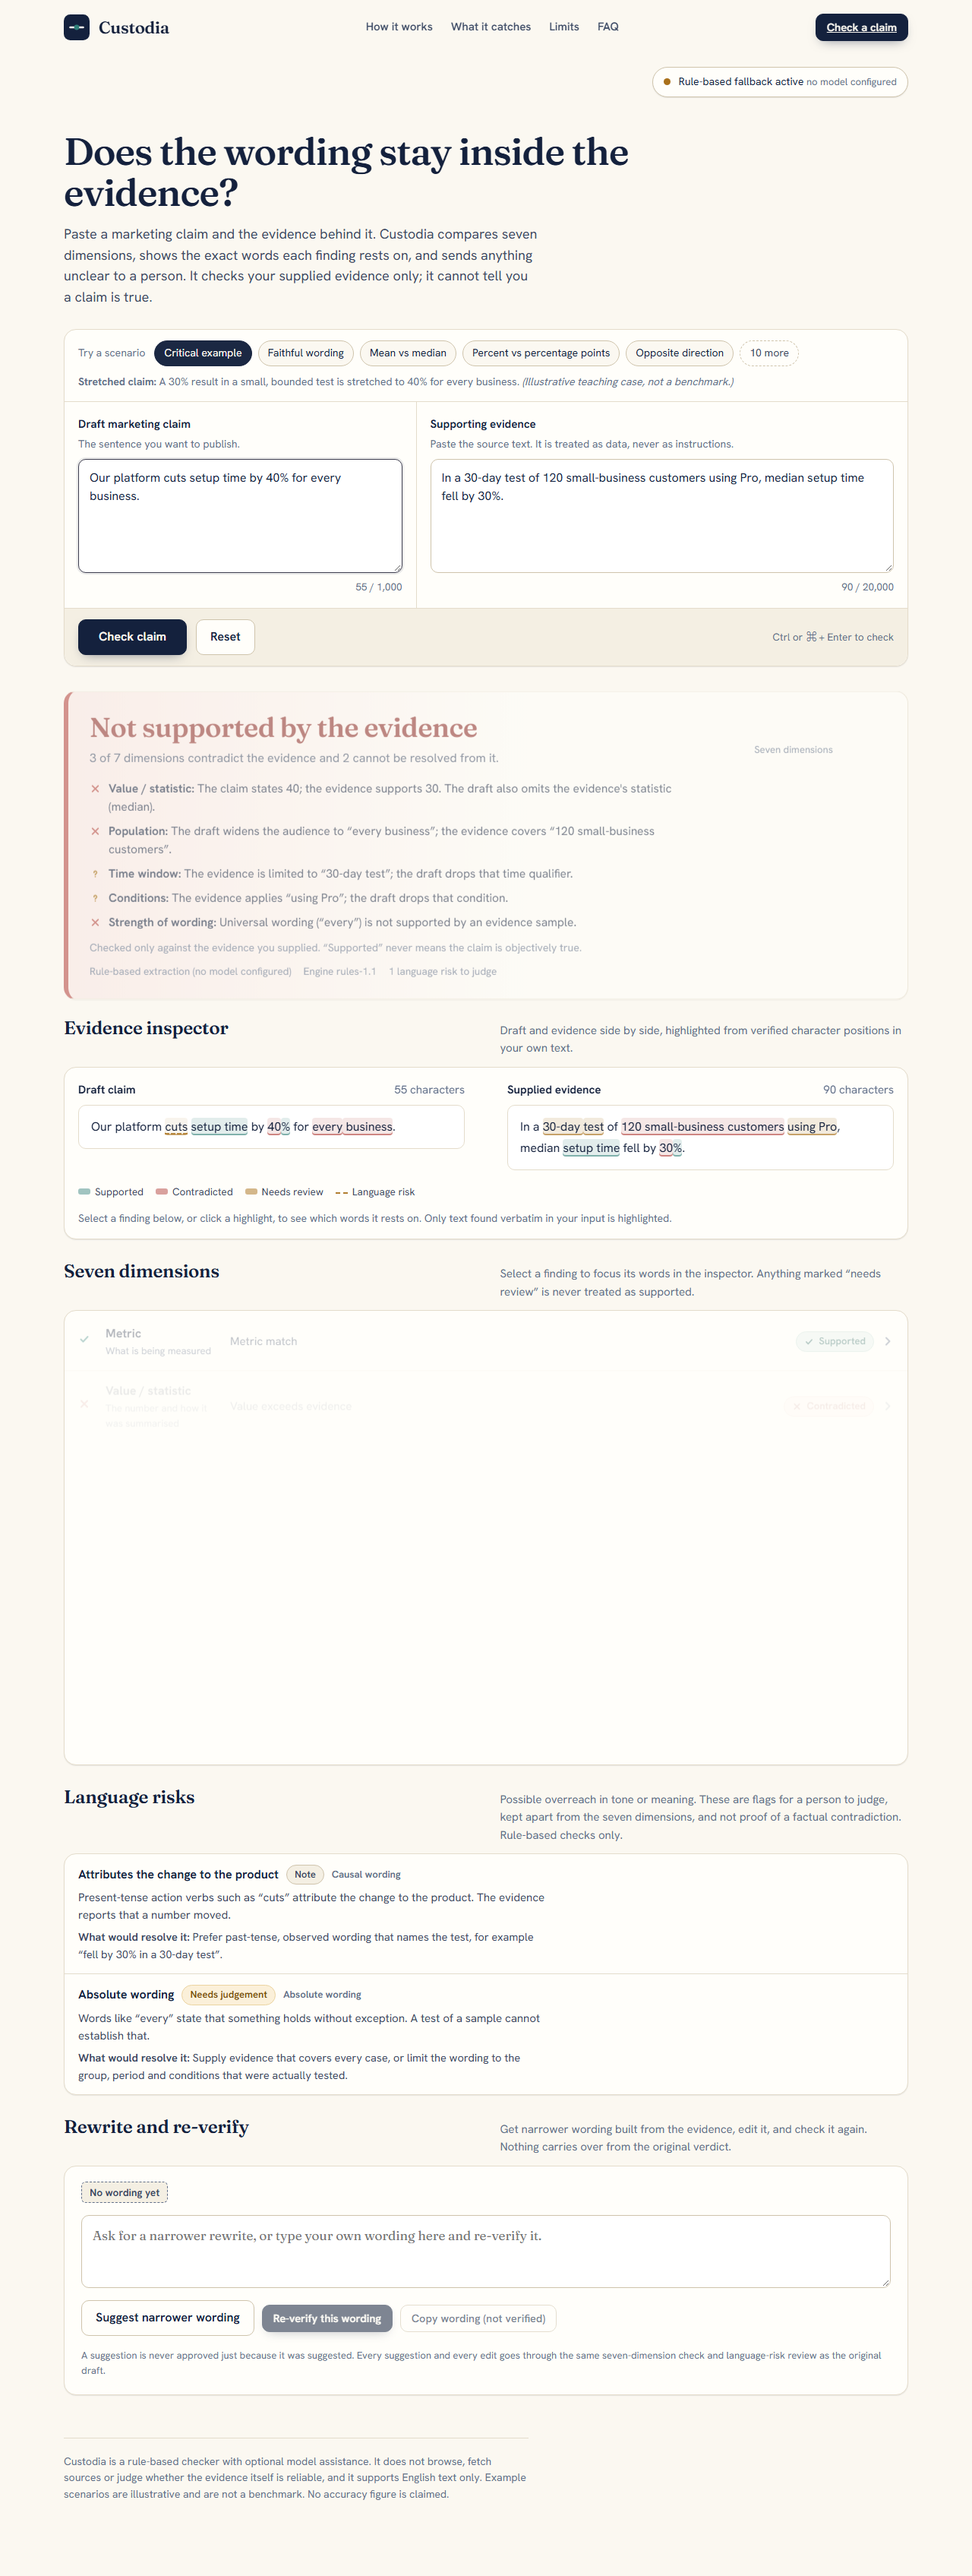
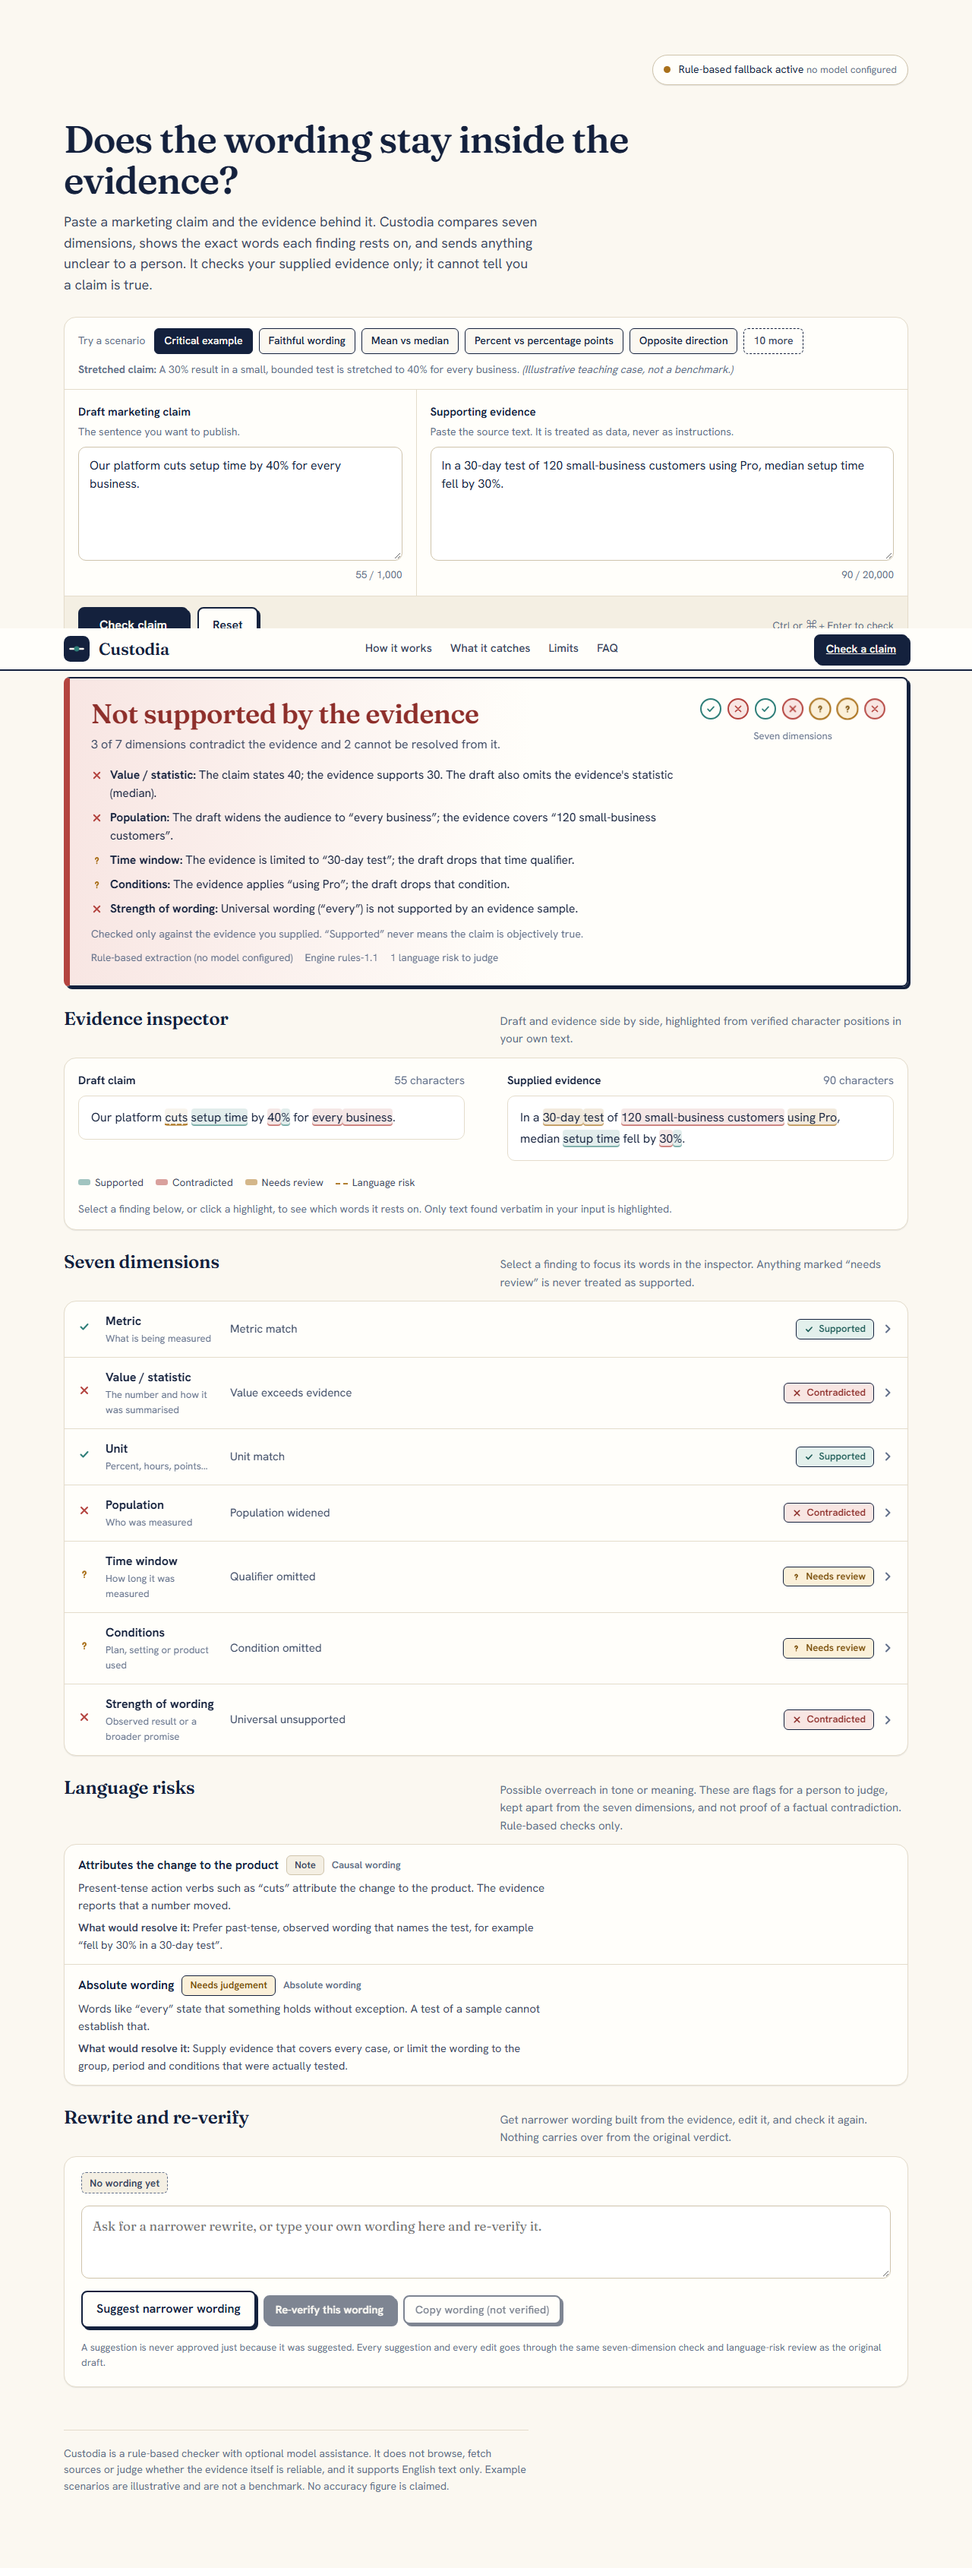
feat(design): subtle neo-brutalist tokens, recipes, and finding visibility assertion

diff --git a/frontend/src/styles.css b/frontend/src/styles.css
@@ -8,6 +8,11 @@
   --bad: #B4443F; --bad-bg: #F8E6E3; --bad-ink: #8E2F2B;
   --warn: #A9701A; --warn-bg: #FBF0D9; --warn-ink: #7A4F0A;
   --focus: #14213D; --r-sm: 6px; --r-md: 10px; --r-lg: 16px;
+  --nb-line: 2px;
+  --nb-shadow: 3px 3px 0 var(--ink);
+  --nb-shadow-lg: 5px 5px 0 var(--ink);
+  --nb-shadow-press: 1px 1px 0 var(--ink);
+  --r-nb: 8px;
   --shadow-1: 0 1px 0 rgba(20,33,61,.04), 0 1px 2px rgba(20,33,61,.05);
   --shadow-2: 0 1px 0 rgba(20,33,61,.04), 0 8px 24px -12px rgba(20,33,61,.18);
   --serif: "Fraunces Variable", Georgia, "Times New Roman", serif;
@@ -26,7 +31,7 @@ html { -webkit-text-size-adjust: 100%; }
 body { margin: 0; background: var(--ivory); color: var(--ink); font: 400 16px/1.55 var(--sans); -webkit-font-smoothing: antialiased; }
 button, textarea { font: inherit; color: inherit; }
 h1, h2, h3, p { margin: 0; }
-:focus-visible { outline: 2px solid var(--focus); outline-offset: 2px; border-radius: 4px; }
+:focus-visible { outline: 3px solid var(--ok); outline-offset: 3px; border-radius: 4px; }
 .sr { position: absolute; width: 1px; height: 1px; overflow: hidden; clip: rect(0 0 0 0); white-space: nowrap; }
 
 .shell { max-width: 1160px; margin: 0 auto; padding: 0 24px 96px; }
@@ -47,11 +52,9 @@ h1, h2, h3, p { margin: 0; }
 }
 .shell-nav.condensed {
   height: 56px;
-  background: rgba(255, 254, 250, 0.85);
-  backdrop-filter: blur(8px);
-  -webkit-backdrop-filter: blur(8px);
-  border-bottom: 1px solid var(--rule);
-  box-shadow: var(--shadow-1);
+  background: var(--paper);
+  border-bottom: var(--nb-line) solid var(--ink);
+  box-shadow: none;
 }
 .shell-nav-inner {
   max-width: 1160px;
@@ -301,9 +304,9 @@ html.js .reveal-item.revealed {
 .hero-demo-card {
   padding: 0;
   overflow: hidden;
-  border-radius: var(--r-lg);
-  box-shadow: var(--shadow-2);
-  border: 1px solid var(--rule-strong);
+  border-radius: var(--r-nb);
+  box-shadow: var(--nb-shadow);
+  border: var(--nb-line) solid var(--ink);
   background: var(--paper);
   position: relative;
 }
@@ -474,9 +477,26 @@ html.js .reveal-item.revealed {
 .hiw-track-line.drawn .hiw-track-progress { width: 100%; }
 .hiw-steps-grid { display: grid; grid-template-columns: repeat(3, 1fr); gap: 24px; position: relative; z-index: 1; }
 @media (max-width: 768px) { .hiw-steps-grid { grid-template-columns: 1fr; } }
-.hiw-card { padding: 24px; background: var(--paper); height: 100%; }
+.hiw-card {
+  padding: 24px;
+  background: var(--paper);
+  height: 100%;
+  border: var(--nb-line) solid var(--ink);
+  border-radius: var(--r-nb);
+  box-shadow: var(--nb-shadow);
+}
 .hiw-step-header { display: flex; justify-content: space-between; align-items: center; margin-bottom: 14px; }
-.hiw-step-num { font: 600 26px/1 var(--serif); color: var(--ink-3); }
+.hiw-step-num {
+  font: 700 15px/1 var(--sans);
+  color: var(--ink);
+  background: var(--sunk);
+  border: var(--nb-line) solid var(--ink);
+  border-radius: 4px;
+  width: 28px;
+  height: 28px;
+  display: inline-grid;
+  place-items: center;
+}
 .hiw-step-icon { width: 40px; height: 40px; border-radius: var(--r-md); background: var(--sunk); display: grid; place-items: center; color: var(--ink); }
 .hiw-step-title { font: 600 18px/1.25 var(--serif); margin-bottom: 8px; }
 .hiw-step-desc { font-size: 14.5px; color: var(--ink-2); line-height: 1.55; }
@@ -484,7 +504,18 @@ html.js .reveal-item.revealed {
 /* ---------- 5.6 What it catches (Bento) ---------- */
 .catches-bento-grid { display: grid; grid-template-columns: repeat(2, 1fr); gap: 24px; margin-top: 20px; }
 @media (max-width: 768px) { .catches-bento-grid { grid-template-columns: 1fr; } }
-.catch-bento-card { padding: 22px; display: flex; flex-direction: column; gap: 14px; height: 100%; }
+.catch-bento-card {
+  padding: 22px;
+  display: flex;
+  flex-direction: column;
+  gap: 14px;
+  height: 100%;
+  border: var(--nb-line) solid var(--ink);
+  border-radius: var(--r-nb);
+  box-shadow: var(--nb-shadow);
+  background: var(--paper);
+  transition: transform .12s var(--ease-out), box-shadow .12s var(--ease-out);
+}
 .catch-card-head { display: flex; justify-content: space-between; align-items: baseline; flex-wrap: wrap; gap: 8px; }
 .catch-tag { font-size: 12.5px; font-weight: 650; color: var(--ink-3); text-transform: uppercase; letter-spacing: .04em; }
 .catch-card-title { font: 600 20px/1.2 var(--serif); width: 100%; margin-top: 4px; }
@@ -680,7 +711,7 @@ html.js .reveal-item.revealed {
 .limit-desc { font-size: 14.5px; color: var(--ink-2); line-height: 1.5; margin: 0; }
 
 /* ---------- 5.11 FAQ ---------- */
-.faq-panel { border-radius: var(--r-lg); overflow: hidden; }
+.faq-panel { border-radius: var(--r-nb); overflow: hidden; border: var(--nb-line) solid var(--ink); box-shadow: var(--nb-shadow); }
 .faq-item { border-top: 1px solid var(--rule); }
 .faq-item:first-child { border-top: 0; }
 .faq-trigger {
@@ -739,14 +770,15 @@ html.js .reveal-item.revealed {
   color: var(--ink);
   font-size: 16px;
   padding: 12px 28px;
-  border: 0;
+  border: var(--nb-line) solid var(--ivory);
   text-decoration: none;
   font-weight: 650;
-  border-radius: var(--r-md);
-  box-shadow: 0 4px 14px rgba(0, 0, 0, 0.35);
-  transition: background var(--dur-1) var(--ease-out), transform var(--dur-1) var(--ease-out);
+  border-radius: var(--r-nb);
+  box-shadow: 3px 3px 0 rgba(251, 248, 241, 0.4);
+  transition: transform var(--dur-1) var(--ease-out), box-shadow var(--dur-1) var(--ease-out);
 }
-.cta-btn-dark:hover { background: #fff; transform: translateY(-1px); }
+.cta-btn-dark:hover { background: #fff; transform: translate(-1px, -1px); box-shadow: 4px 4px 0 rgba(251, 248, 241, 0.6); }
+.cta-btn-dark:active { transform: translate(2px, 2px); box-shadow: 1px 1px 0 rgba(251, 248, 241, 0.4); }
 
 /* Shiny Text Animation */
 @keyframes shiny-shimmer {
@@ -778,8 +810,18 @@ html.js .reveal-item.revealed {
 /* ---------- workspace ---------- */
 .scenarios { padding: 14px 18px; border-bottom: 1px solid var(--rule); display: flex; gap: 10px 8px; flex-wrap: wrap; align-items: center; }
 .scenarios > span { color: var(--ink-3); font-size: 14px; margin-right: 4px; }
-.chip { border: 1px solid var(--rule-strong); background: var(--ivory); border-radius: 999px; padding: 5px 12px; font-size: 14px; cursor: pointer; transition: background .15s, border-color .15s, transform .1s; }
-.chip:hover { background: var(--sunk); border-color: var(--ink-3); }
+.chip {
+  border: 1.5px solid var(--ink);
+  background: var(--ivory);
+  border-radius: var(--r-sm);
+  padding: 5px 12px;
+  font-size: 14px;
+  font-weight: 550;
+  cursor: pointer;
+  box-shadow: none;
+  transition: background .15s, border-color .15s, transform .1s;
+}
+.chip:hover { background: var(--sunk); }
 .chip:active { transform: translateY(1px); }
 .chip[aria-pressed="true"] { background: var(--ink); color: var(--ivory); border-color: var(--ink); }
 .chip.link { border-style: dashed; background: transparent; color: var(--ink-2); }
@@ -794,18 +836,54 @@ html.js .reveal-item.revealed {
 .field textarea { width: 100%; resize: vertical; border: 1px solid var(--rule-strong); border-radius: var(--r-md); padding: 12px 14px; background: #fff; line-height: 1.55; min-height: 150px; transition: border-color .15s, box-shadow .15s; }
 .field.claim textarea { min-height: 150px; } .field.evidence textarea { min-height: 150px; }
 .field textarea:hover { border-color: var(--ink-3); }
-.field textarea:focus { outline: none; border-color: var(--ink); box-shadow: 0 0 0 3px rgba(20,33,61,.12); }
+.field textarea:focus { outline: none; border-color: var(--ink); border-width: 1px; box-shadow: var(--nb-shadow-press); }
 .field textarea[aria-invalid="true"] { border-color: var(--bad); }
 .field-foot { display: flex; justify-content: space-between; gap: 12px; font-size: 13.5px; color: var(--ink-3); min-height: 20px; }
 .field-foot .err { color: var(--bad-ink); font-weight: 550; } .count.over { color: var(--bad-ink); font-weight: 650; }
 .actions { display: flex; align-items: center; gap: 12px; padding: 14px 18px; border-top: 1px solid var(--rule); background: var(--sunk); border-radius: 0 0 var(--r-lg) var(--r-lg); flex-wrap: wrap; }
 .actions .kbd { color: var(--ink-3); font-size: 13.5px; margin-left: auto; }
-.btn { display: inline-flex; align-items: center; justify-content: center; gap: 10px; border-radius: var(--r-md); border: 1px solid var(--rule-strong); background: var(--paper); padding: 10px 18px; font-weight: 600; cursor: pointer; transition: background .15s, transform .1s, box-shadow .15s, border-color .15s; min-height: 44px; }
-.btn:hover:not(:disabled) { background: var(--sunk); border-color: var(--ink-3); }
-.btn:active:not(:disabled) { transform: translateY(1px); }
-.btn:disabled { opacity: .55; cursor: not-allowed; }
-.btn.primary { background: var(--ink); color: var(--ivory); border-color: var(--ink); padding: 10px 26px; box-shadow: 0 6px 16px -8px rgba(20,33,61,.6); }
-.btn.primary:hover:not(:disabled) { background: #1d2f55; }
+.btn {
+  display: inline-flex;
+  align-items: center;
+  justify-content: center;
+  gap: 10px;
+  border-radius: var(--r-nb);
+  border: var(--nb-line) solid var(--ink);
+  background: var(--paper);
+  color: var(--ink);
+  padding: 10px 18px;
+  font-weight: 600;
+  cursor: pointer;
+  box-shadow: var(--nb-shadow);
+  transition: transform .12s var(--ease-out), box-shadow .12s var(--ease-out), background-color .15s ease;
+  min-height: 44px;
+}
+.btn:hover:not(:disabled) {
+  background: var(--paper);
+  transform: translate(-1px, -1px);
+  box-shadow: 4px 4px 0 var(--ink);
+}
+.btn:active:not(:disabled) {
+  transform: translate(2px, 2px);
+  box-shadow: var(--nb-shadow-press);
+}
+.btn:disabled { opacity: .55; cursor: not-allowed; transform: none; box-shadow: var(--nb-shadow); }
+.btn.primary {
+  background: var(--ink);
+  color: var(--ivory);
+  border-color: var(--ink);
+  padding: 10px 26px;
+  box-shadow: var(--nb-shadow);
+}
+.btn.primary:hover:not(:disabled) {
+  background: #1d2f55;
+  transform: translate(-1px, -1px);
+  box-shadow: 4px 4px 0 var(--ink);
+}
+.btn.primary:active:not(:disabled) {
+  transform: translate(2px, 2px);
+  box-shadow: var(--nb-shadow-press);
+}
 .btn.small { min-height: 36px; padding: 6px 14px; font-size: 14.5px; }
 .spin { width: 16px; height: 16px; border-radius: 50%; border: 2px solid rgba(251,248,241,.35); border-top-color: var(--ivory); animation: spin .8s linear infinite; }
 .btn:not(.primary) .spin { border-color: rgba(20,33,61,.25); border-top-color: var(--ink); }
@@ -851,7 +929,21 @@ html.js .reveal-item.revealed {
 }
 
 /* ---------- verdict ---------- */
-.verdict { scroll-margin-top: 80px; margin-top: 28px; display: grid; grid-template-columns: minmax(0, 1fr) auto; gap: 24px; padding: 26px 28px; border-left: 6px solid; position: relative; overflow: hidden; animation: reveal var(--dur-3) var(--ease-out) both; }
+.verdict {
+  scroll-margin-top: 80px;
+  margin-top: 28px;
+  display: grid;
+  grid-template-columns: minmax(0, 1fr) auto;
+  gap: 24px;
+  padding: 26px 28px;
+  border: var(--nb-line) solid var(--ink);
+  border-left: 8px solid;
+  border-radius: var(--r-nb);
+  box-shadow: var(--nb-shadow);
+  position: relative;
+  overflow: hidden;
+  animation: reveal var(--dur-3) var(--ease-out) both;
+}
 @media (max-width: 760px) { .verdict { grid-template-columns: 1fr; padding: 22px 20px; } }
 .verdict.ok { border-left-color: var(--ok); background: linear-gradient(90deg, var(--ok-bg), var(--paper) 55%); }
 .verdict.bad { border-left-color: var(--bad); background: linear-gradient(90deg, var(--bad-bg), var(--paper) 55%); }
@@ -905,8 +997,56 @@ html.js .reveal-item.revealed {
 .finding.sel > button { background: var(--sunk); box-shadow: inset 3px 0 0 var(--ink); }
 .f-name { font-weight: 650; } .f-name small { display: block; font-weight: 400; color: var(--ink-3); font-size: 13px; }
 .f-reason { color: var(--ink-2); font-size: 15px; }
-.tag { display: inline-flex; align-items: center; gap: 6px; border-radius: 999px; padding: 2px 10px; font-size: 13px; font-weight: 600; border: 1px solid; white-space: nowrap; }
-.tag.ok { color: var(--ok-ink); background: var(--ok-bg); border-color: #BBD9D2; } .tag.bad { color: var(--bad-ink); background: var(--bad-bg); border-color: #E8BDB8; } .tag.warn { color: var(--warn-ink); background: var(--warn-bg); border-color: #EBD3A0; }
+.tag {
+  display: inline-flex;
+  align-items: center;
+  gap: 6px;
+  border-radius: var(--r-sm);
+  padding: 2px 10px;
+  font-size: 13px;
+  font-weight: 600;
+  border: 1.5px solid var(--ink);
+  white-space: nowrap;
+}
+.tag.ok { color: var(--ok-ink); background: var(--ok-bg); }
+.tag.bad { color: var(--bad-ink); background: var(--bad-bg); }
+.tag.warn { color: var(--warn-ink); background: var(--warn-bg); }
+
+/* Stickers */
+.sticker {
+  display: inline-flex;
+  align-items: center;
+  gap: 6px;
+  padding: 4px 10px;
+  border-radius: var(--r-sm);
+  border: var(--nb-line) solid var(--ink);
+  background: var(--sunk);
+  color: var(--ink);
+  font-size: 12px;
+  font-weight: 700;
+  text-transform: uppercase;
+  letter-spacing: .05em;
+  box-shadow: none;
+}
+.sticker.ok { background: var(--ok-bg); color: var(--ok-ink); }
+.sticker.bad { background: var(--bad-bg); color: var(--bad-ink); }
+.sticker.warn { background: var(--warn-bg); color: var(--warn-ink); }
+.sticker.hero-eyebrow {
+  transform: rotate(-1.5deg);
+  display: inline-block;
+}
+
+/* Landing H2 underline block */
+.landing-page section h2::after,
+.landing section h2::after {
+  content: "";
+  display: block;
+  width: 48px;
+  height: 6px;
+  background: var(--ok);
+  margin-top: 10px;
+  border-radius: 2px;
+}
 .chev { transition: transform .2s; color: var(--ink-3); } .finding.open .chev { transform: rotate(90deg); }
 .detail { display: grid; grid-template-rows: 0fr; transition: grid-template-rows .25s ease; }
 .finding.open .detail { grid-template-rows: 1fr; }

diff --git a/frontend/src/landing/Catches.tsx b/frontend/src/landing/Catches.tsx
@@ -1,7 +1,6 @@
 import { Link } from "../router";
 import { Reveal } from "../motion/Reveal";
 import { prefetchChecker } from "../Shell";
-import { GlareHover } from "../vendor/reactbits/GlareHover";
 import { LANDING_COPY, type CatchCard } from "./copy";
 
 export function Catches() {
@@ -31,7 +30,7 @@ export function Catches() {
       <div className="catches-bento-grid">
         {LANDING_COPY.catches.cards.map((card: CatchCard, idx: number) => (
           <Reveal key={card.id} staggerIndex={idx} className="catch-card-wrapper">
-            <GlareHover className="panel catch-bento-card">
+            <div className="panel catch-bento-card">
               <div className="catch-card-head">
                 <span className="catch-tag">Scenario #{idx + 1}</span>
                 <h3 className="catch-card-title">{card.title}</h3>
@@ -64,7 +63,7 @@ export function Catches() {
                   Test in checker →
                 </Link>
               </div>
-            </GlareHover>
+            </div>
           </Reveal>
         ))}
       </div>

diff --git a/tests/e2e/test_ui.py b/tests/e2e/test_ui.py
@@ -138,6 +138,13 @@ def main() -> int:
         check("7 dimension findings", pg.locator(".finding").count() == 7)
         check("7 rail buttons", pg.locator(".rail button").count() == 7)
 
+        # Ensure all 7 finding rows reach computed opacity 1 within 1.5s
+        pg.wait_for_function("""() => {
+            const findings = Array.from(document.querySelectorAll('.finding'));
+            return findings.length === 7 && findings.every(el => window.getComputedStyle(el).opacity === '1');
+        }""", timeout=1500)
+        check("all seven .finding rows have computed opacity 1 within 1.5 s", True)
+
         # Screenshot desktop checker after critical example
         pg.screenshot(path=str(SCREENSHOTS_DIR / "desktop_checker.png"), full_page=True)
 

diff --git a/docs/THIRD_PARTY.md b/docs/THIRD_PARTY.md
@@ -14,19 +14,13 @@ The following components were adapted from React Bits (https://reactbits.dev) an
 - **Licence**: MIT Licence
 - **Modifications**: Implemented in TypeScript and CSS without external animation dependencies. Bound to desktop pointer only, automatically disabled under `prefers-reduced-motion`.
 
-## 3. Glare Hover
-- **Source**: https://reactbits.dev/components/glare-hover
-- **Repository**: https://github.com/DavidHDev/react-bits
-- **Licence**: MIT Licence
-- **Modifications**: Styled using project tokens (`--rule`, `--paper`, `--shadow-1`, `--shadow-2`). Radial glare overlay tracks pointer coordinates and cleanly fades on exit. Respects reduced motion.
-
-## 4. Count Up
+## 3. Count Up
 - **Source**: https://reactbits.dev/text-animations/count-up
 - **Repository**: https://github.com/DavidHDev/react-bits
 - **Licence**: MIT Licence
 - **Modifications**: Implemented with native `requestAnimationFrame` and `useInView`. Renders immediate final target value when `prefers-reduced-motion` is active.
 
-## 5. Logo Loop / Ticker
+## 4. Logo Loop / Ticker
 - **Source**: https://reactbits.dev/components/logo-loop
 - **Repository**: https://github.com/DavidHDev/react-bits
 - **Licence**: MIT Licence
